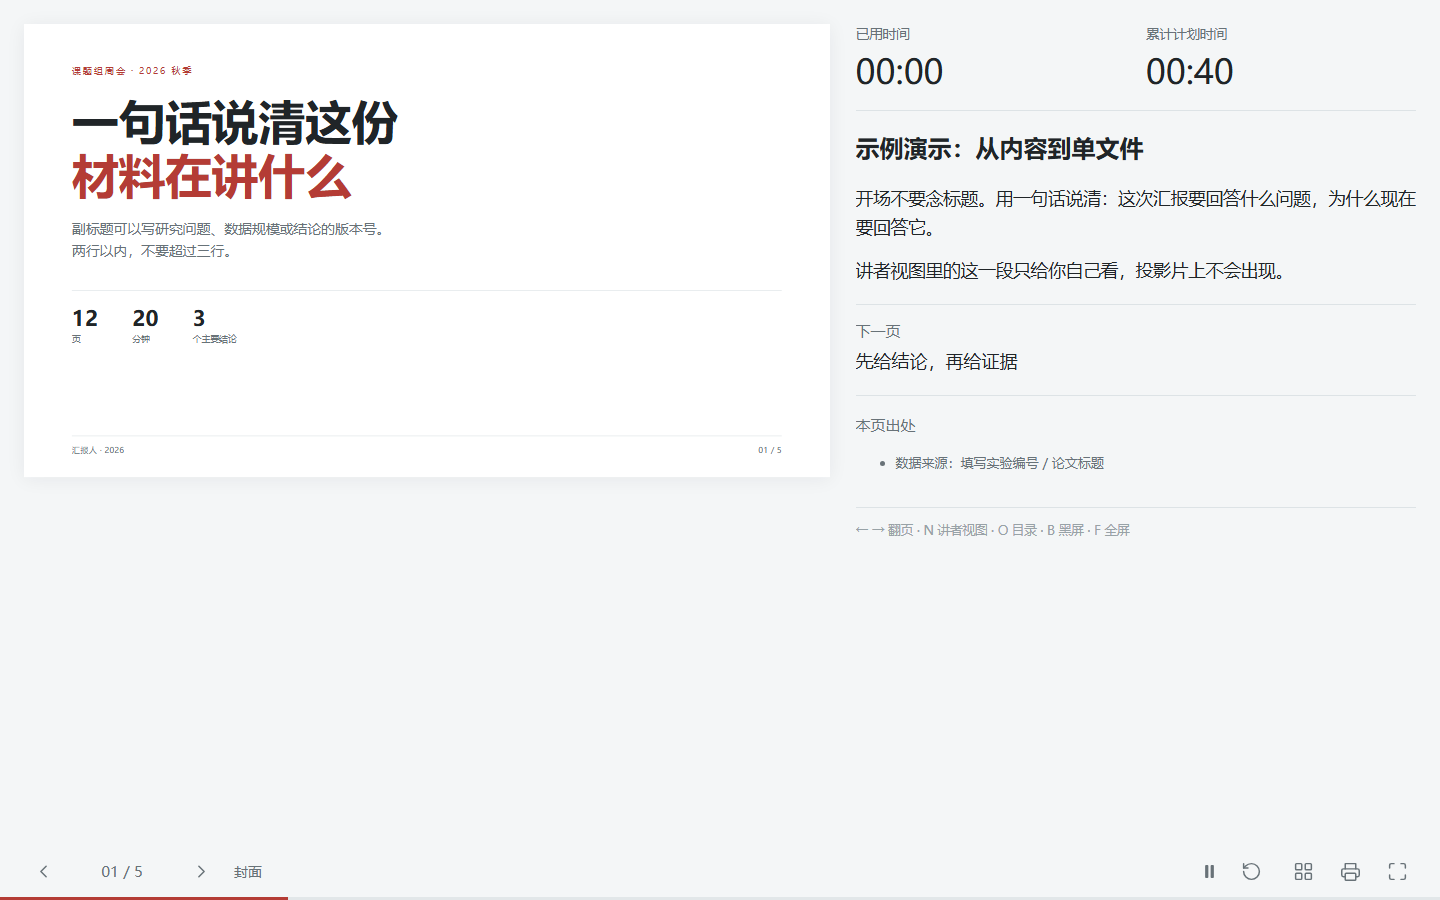
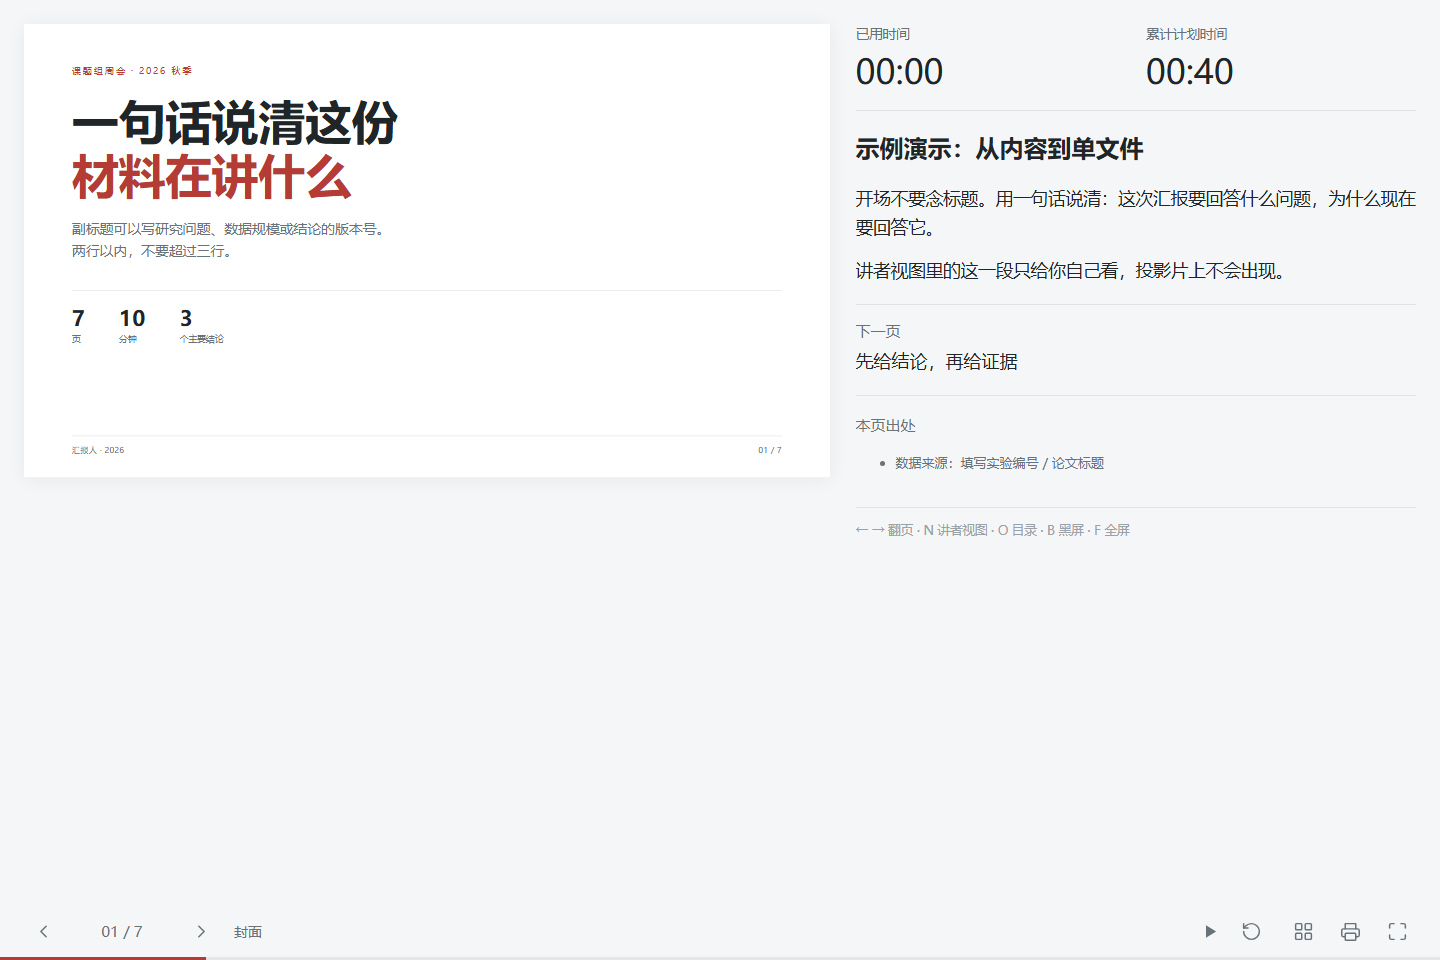
docs: 换新示例截图，README 页数对齐 7 页
- cover.png / presenter.png 按新 demo（7 页、10 分钟）重拍
- README 示例段落 5 页 → 7 页，说明最后两页演示 role 分层

diff --git a/README.md b/README.md
@@ -166,7 +166,7 @@ await exportDeck({dir: "新报告", formats: ["pdf", "png"], scale: 2});
 
 ## 示例
 
-[`examples/demo/`](examples/demo/) 是 5 页的完整例子：封面、要点、方法（表格 + 代码）、结果（图片）、下一步。
+[`examples/demo/`](examples/demo/) 是 7 页的完整例子：封面、要点、方法（表格 + 代码）、结果（图片）、主题案例、下一步、延伸阅读。最后两页演示 `role` 分层，讲稿里的类型列和「参考文献」分组就是它们带出来的。
 
 ```bash
 npm run demo          # 重新构建并打开
@@ -206,7 +206,7 @@ src/export.mjs     PDF 与 PNG 导出
 src/chrome.mjs     无头浏览器与 CDP 客户端（零依赖）
 src/scaffold.mjs   脚手架
 templates/         new 用的模板
-examples/demo/     5 页示例（含产物）
+examples/demo/     7 页示例（含产物）
 docs/              设计说明与截图
 ```
 
